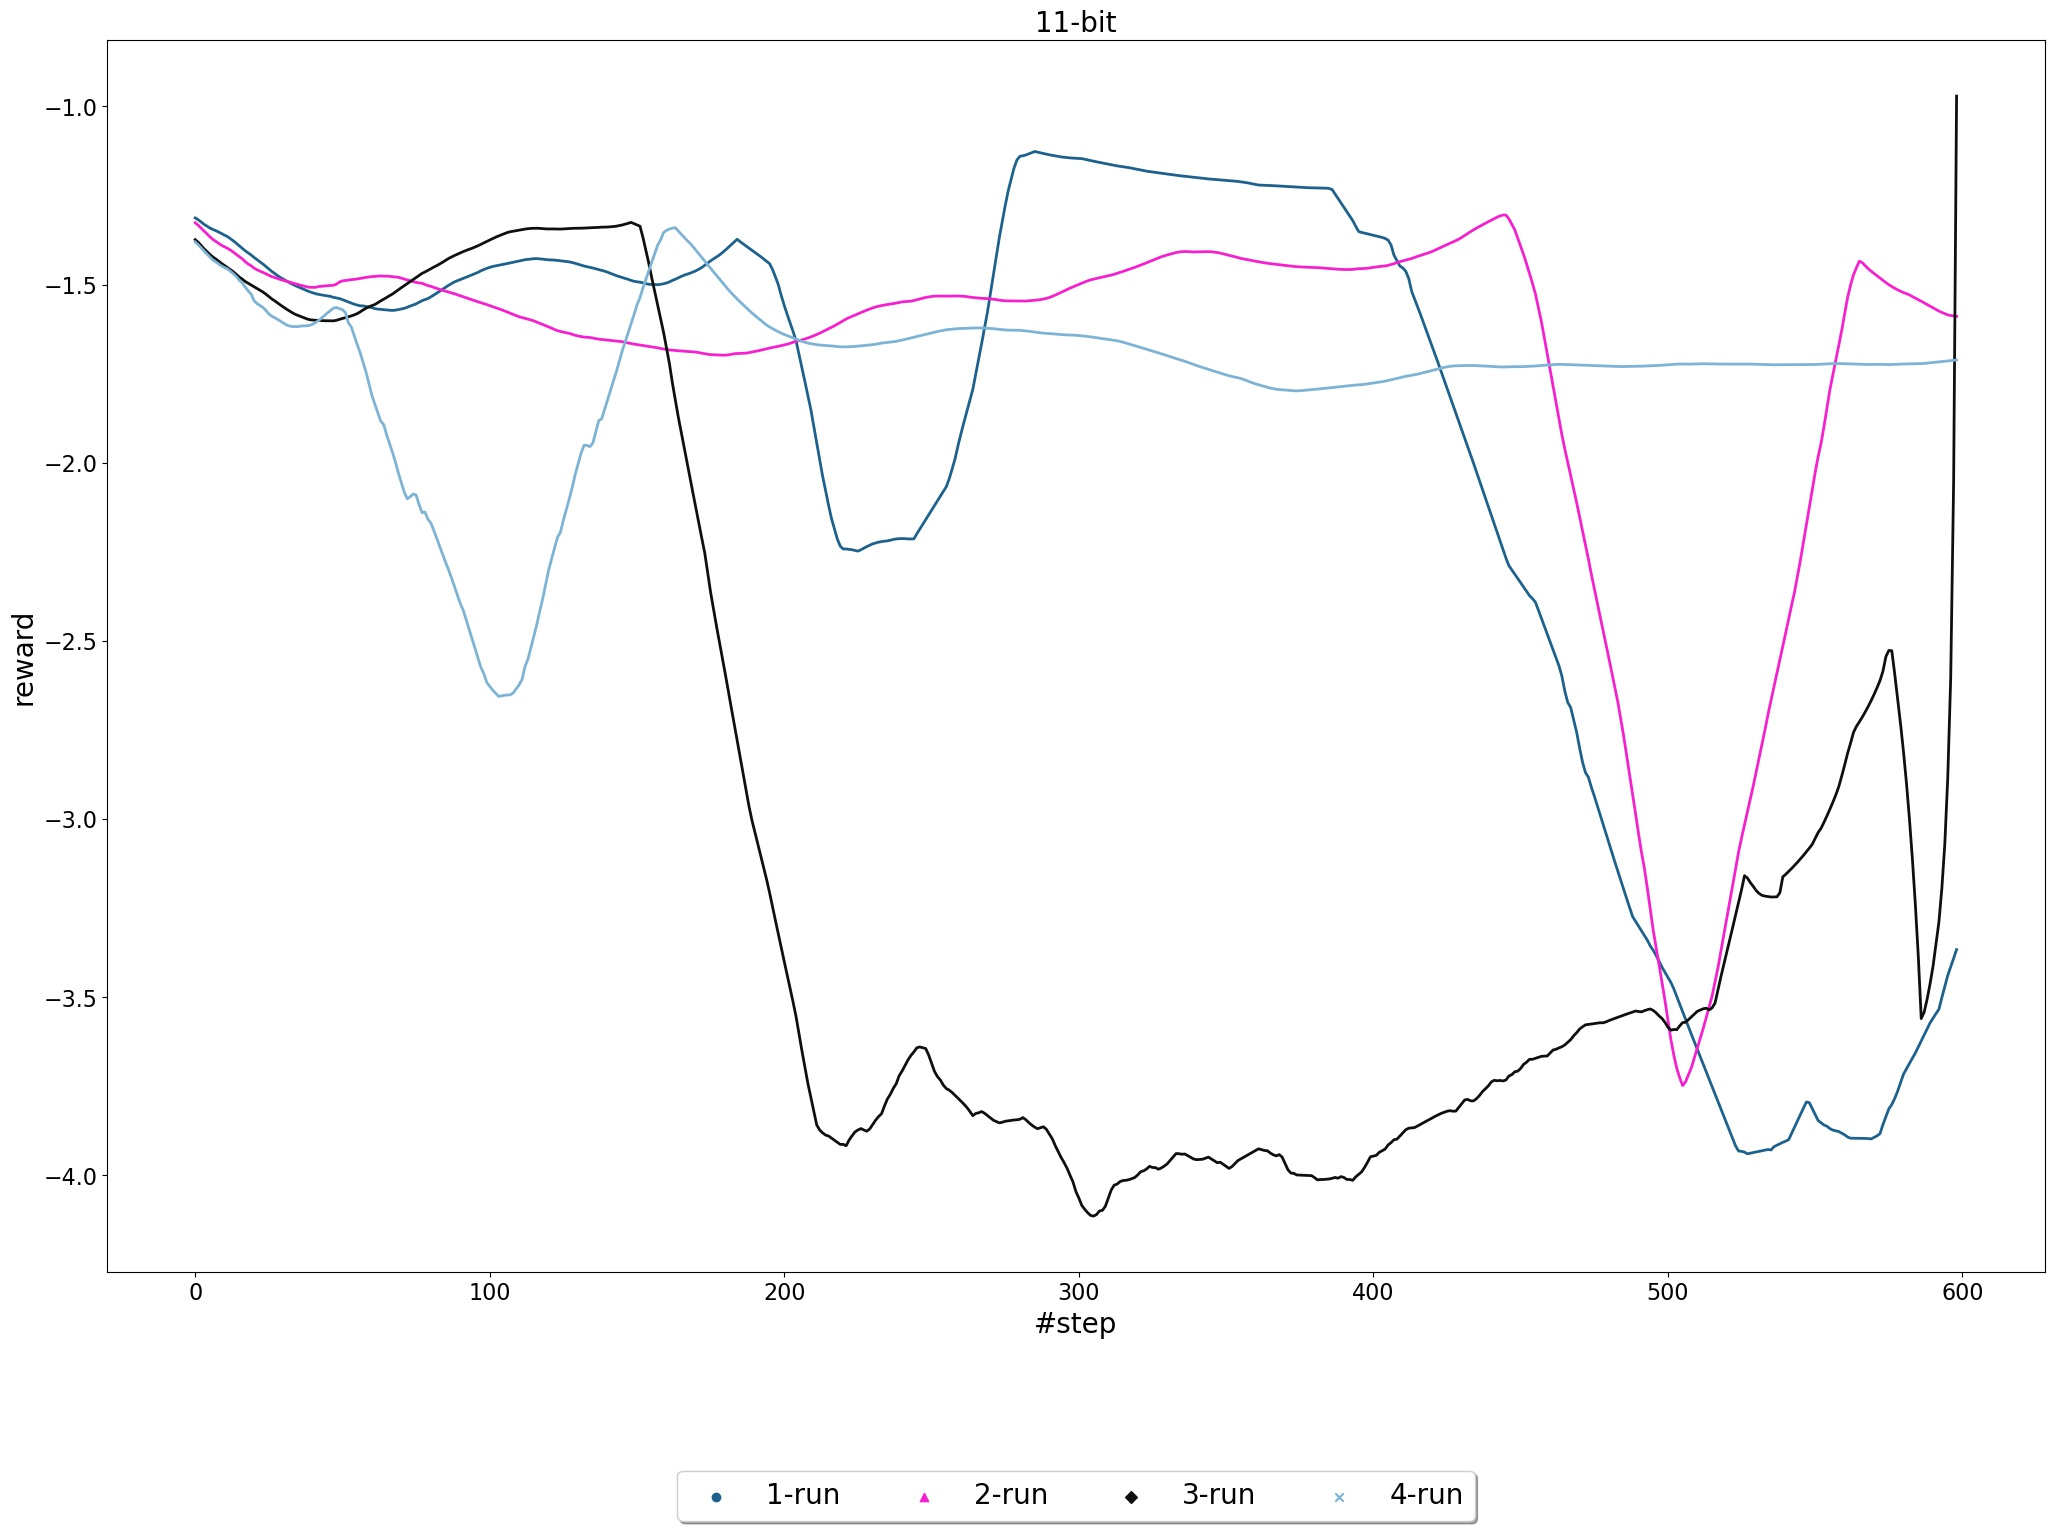
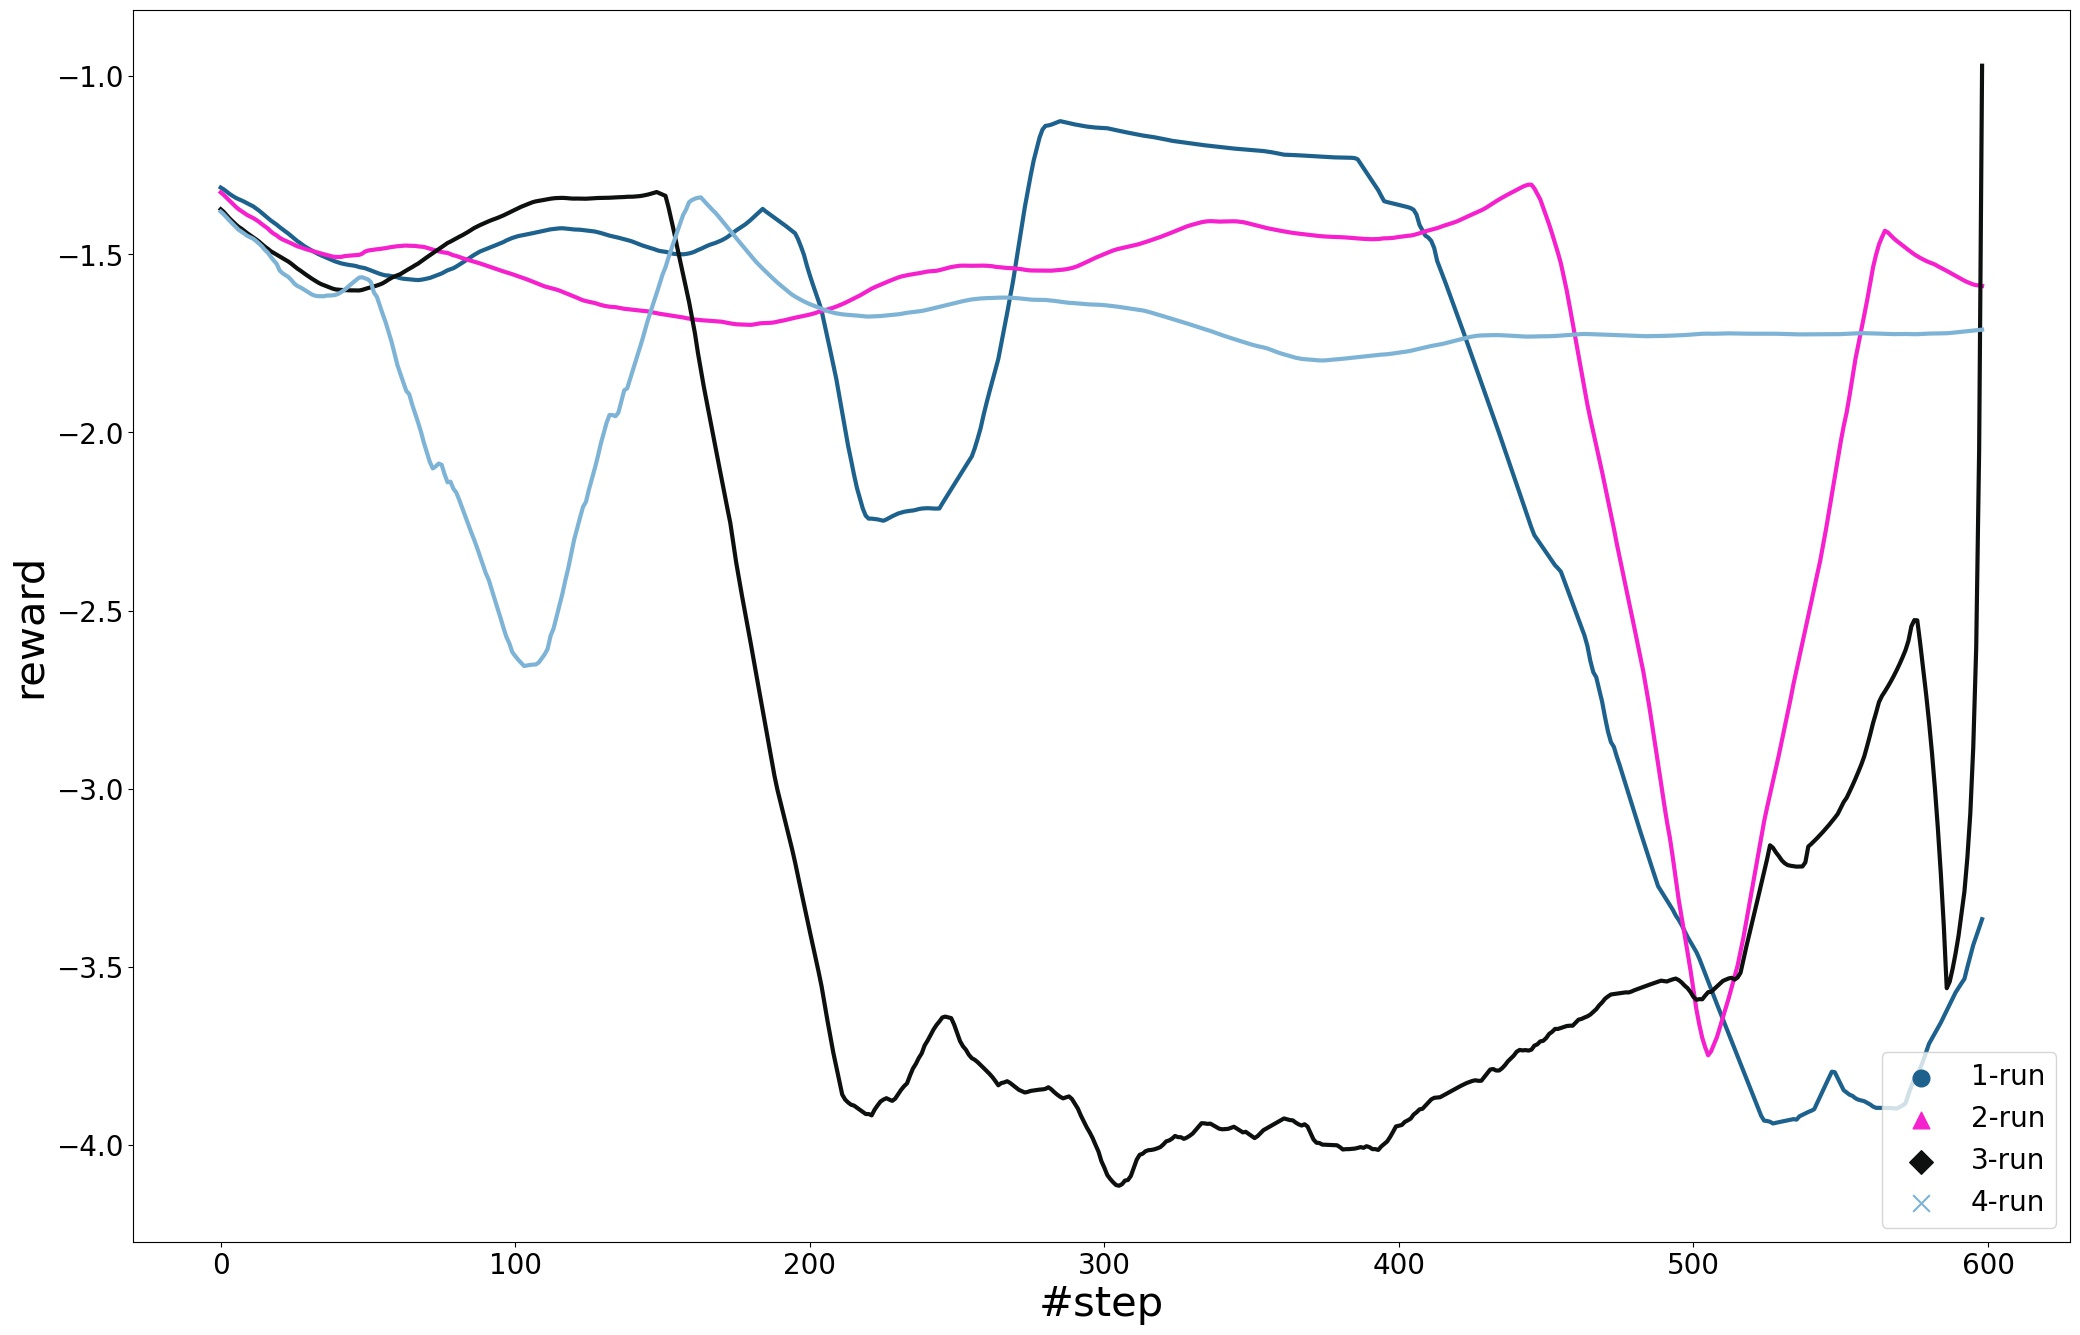
plot is good

diff --git a/nqubit/plot/plot_dqn.py b/nqubit/plot/plot_dqn.py
@@ -57,7 +57,7 @@ def read_data_from_txt(path_to_single_txt):
 
     return step_threshold
 
-def plot_n_bit_dqn(ax, dqn_path_n, n, linewidth = 2.0, scatter_space = 1000, smooth_index=60):
+def plot_n_bit_dqn(ax, dqn_path_n, n, linewidth = 3.0, scatter_space = 1000, smooth_index=60):
     '''
     input: dqn_path_n = '../results/DQN_data/5/'
     '''
@@ -67,9 +67,9 @@ def plot_n_bit_dqn(ax, dqn_path_n, n, linewidth = 2.0, scatter_space = 1000, smo
     if num_curves > 4:
         num_curves = 4
 
-    ax.set_xlabel('#step', fontsize = 20)
-    ax.set_ylabel('reward', fontsize = 20)
-    ax.set_title('{0}-bit'.format(n), fontsize = 20)
+    ax.set_xlabel('#step', fontsize = 30)
+    ax.set_ylabel('reward', fontsize = 30)
+  #ax.set_title('{0}-bit'.format(n), fontsize = 20)
 
     # read_data
     data = []
@@ -98,20 +98,21 @@ def plot_n_bit_dqn(ax, dqn_path_n, n, linewidth = 2.0, scatter_space = 1000, smo
     label = ['{}-run'.format(i+1) for i in range(num_curves)]
 
     for num in range(num_curves):
-        ax.plot(index, data[num][:], color=color_dictionary[num], linewidth= linewidth)
+        ax.plot(index, data[num][:], color=color_dictionary[num], linewidth= linewidth, markersize=12)
 
         x_scatter = np.linspace(0, min_length-1, int(min_length/scatter_space), dtype=np.int)
         y_scatter = data[num][x_scatter]
         ax.scatter(x_scatter, y_scatter, color=color_dictionary[num], label=label[num], marker=marker_dictionary[num])
 
     
-    ax.legend(loc='upper center', bbox_to_anchor=(0.5, -0.15),fancybox=True, shadow=True, ncol=num_curves, fontsize = 20)
+    ax.legend(loc='lower right', fontsize = 20,markerscale=2)
 
 
     for label in ax.xaxis.get_ticklabels():
-        label.set_fontsize(16)
+        label.set_fontsize(20)
     for label in ax.yaxis.get_ticklabels():
-        label.set_fontsize(16)
+        label.set_fontsize(20)
+        
 
     plt.savefig('{}-bit-dqn.jpg'.format(n), dpi = 100, bbox_inches='tight')
         

diff --git a/nqubit/plot/plot_tf_events.py b/nqubit/plot/plot_tf_events.py
@@ -21,7 +21,7 @@ linestyle_dictionary = {
 }
 
 
-def plot_func(ax, method_dirs, color, label, marker, smooth_index=30, alpha=0.5, linewidth=1.0, scatter_space = 400):
+def plot_func(ax, method_dirs, color, label, marker, smooth_index=30, alpha=0.5, linewidth=3.0, scatter_space = 400):
     '''
     input: method_dirs : ['algo1/seed1','~algo1/seed4']
     '''
@@ -125,7 +125,7 @@ def main_plot():
 
         ax_count += 1
     
-    axs[1].legend(loc='upper center', bbox_to_anchor=(0.5, -0.15),fancybox=True, shadow=True, ncol=3, fontsize = 20)
+    axs[1].legend(loc='upper center', bbox_to_anchor=(0.5, -0.15),fancybox=True, shadow=True, ncol=3, fontsize = 25,markerscale=2.0)
 
     ###
     limits = [3000, 5000, 8000, 10000]
@@ -136,9 +136,9 @@ def main_plot():
         for i in range(3):
             axs[i].set_xlim(0, limit)
             for label in axs[i].xaxis.get_ticklabels():
-                label.set_fontsize(12)
+                label.set_fontsize(20)
             for label in axs[i].yaxis.get_ticklabels():
-                label.set_fontsize(12)
+                label.set_fontsize(20)
             
         plt.savefig('{}episodes.jpg'.format(limit), dpi = 100, bbox_inches='tight')
         

diff --git a/nqubit/plot/plot_ablation_study.py b/nqubit/plot/plot_ablation_study.py
@@ -89,11 +89,12 @@ def plot_reward_scale(ax, data_path_n, n, linewidth = 2.0, scatter_space = 1000,
         label.set_fontsize(16)
 
     print("saving")
-    plt.savefig('{}-reward-scale.jpg'.format(n), dpi = 100, bbox_inches='tight')
+    plt.savefig('{}-episode_length.jpg'.format(n), dpi = 100, bbox_inches='tight')
 
 if __name__ == '__main__':
     fig, ax = plt.subplots(1, 1, figsize=(25, 16))
-    data_path = '../results/latest_reward_sacle5/sac/*'
+   # data_path = '../results/latest_reward_sacle5/sac/*'
+    data_path = '../results/latest_episode_length5/sac/*'
     plot_reward_scale(ax, data_path, 5)
 
     

diff --git a/nqubit/plot/plot_seeds.py b/nqubit/plot/plot_seeds.py
@@ -1,0 +1,19 @@
+import numpy as np
+import glob
+import os
+import re
+import matplotlib.pyplot as plt
+from tensorboard.backend.event_processing.event_accumulator import EventAccumulator
+
+
+
+color_dictionary = {
+    0: "#1F618D", 1: "#F322CD", 2: "#0E0F0F", 3: "#7FB3D5", 4: "#22DAF3",
+    5: "#5B2C6F", 6: "#800000", 7: "#008000", 8: "#008000", 9: "#E74C3C",
+    10: "#D35400", 11: "#800000", 12: "#2980B9", 13: "#F1948A", 14: "#1C2833",
+    15: "#E74C3C", 16: "#0000FF" 
+}
+
+marker_dictionary = {
+    0:"o", 1:"^", 2:"D", 3:"x"
+}
